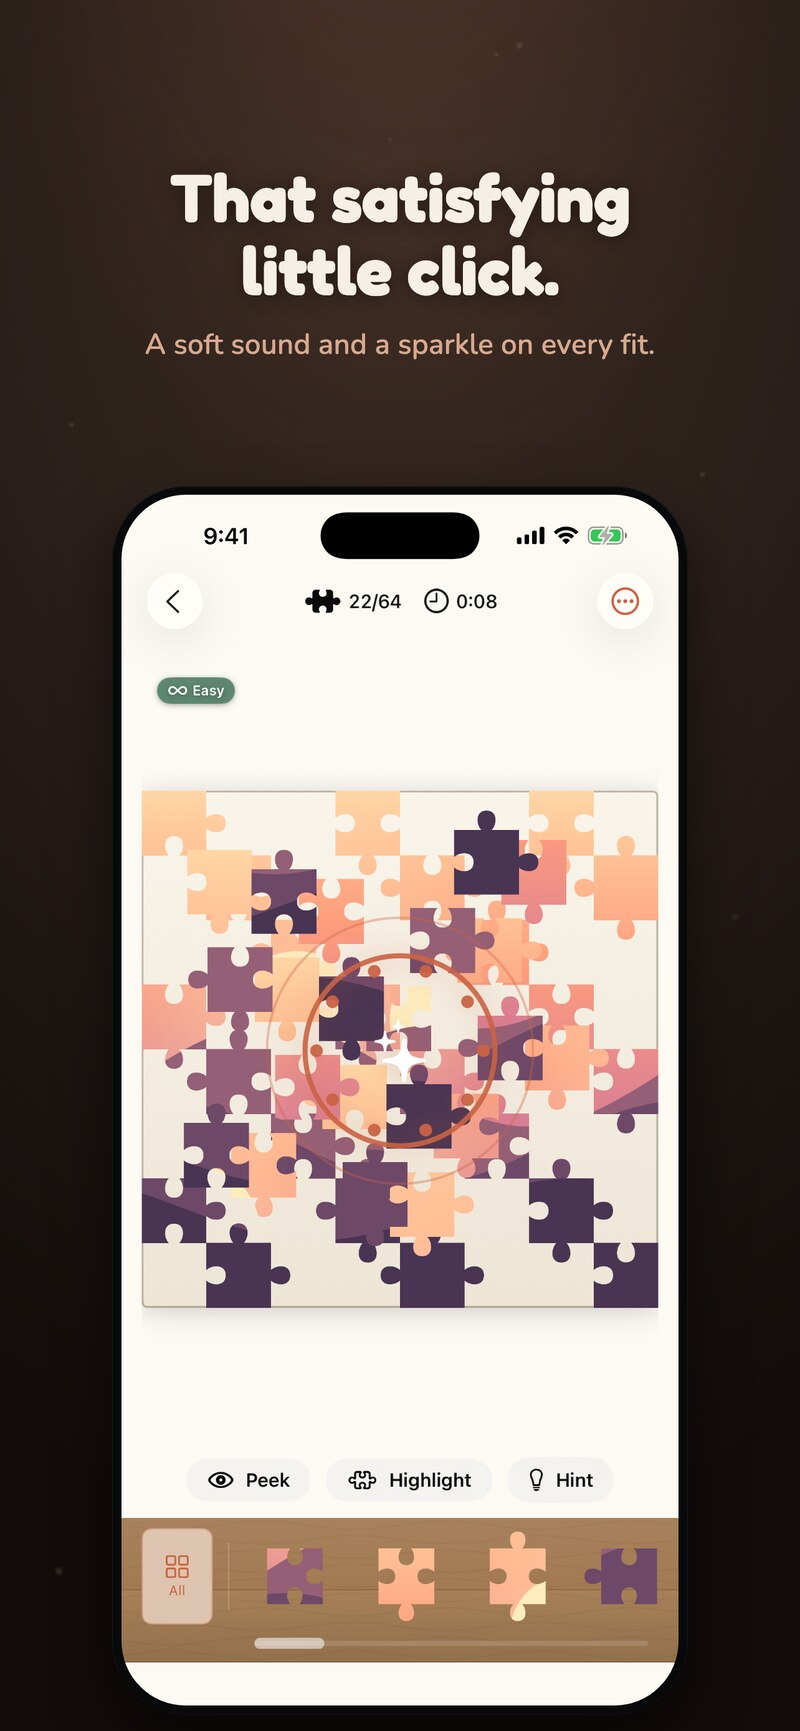
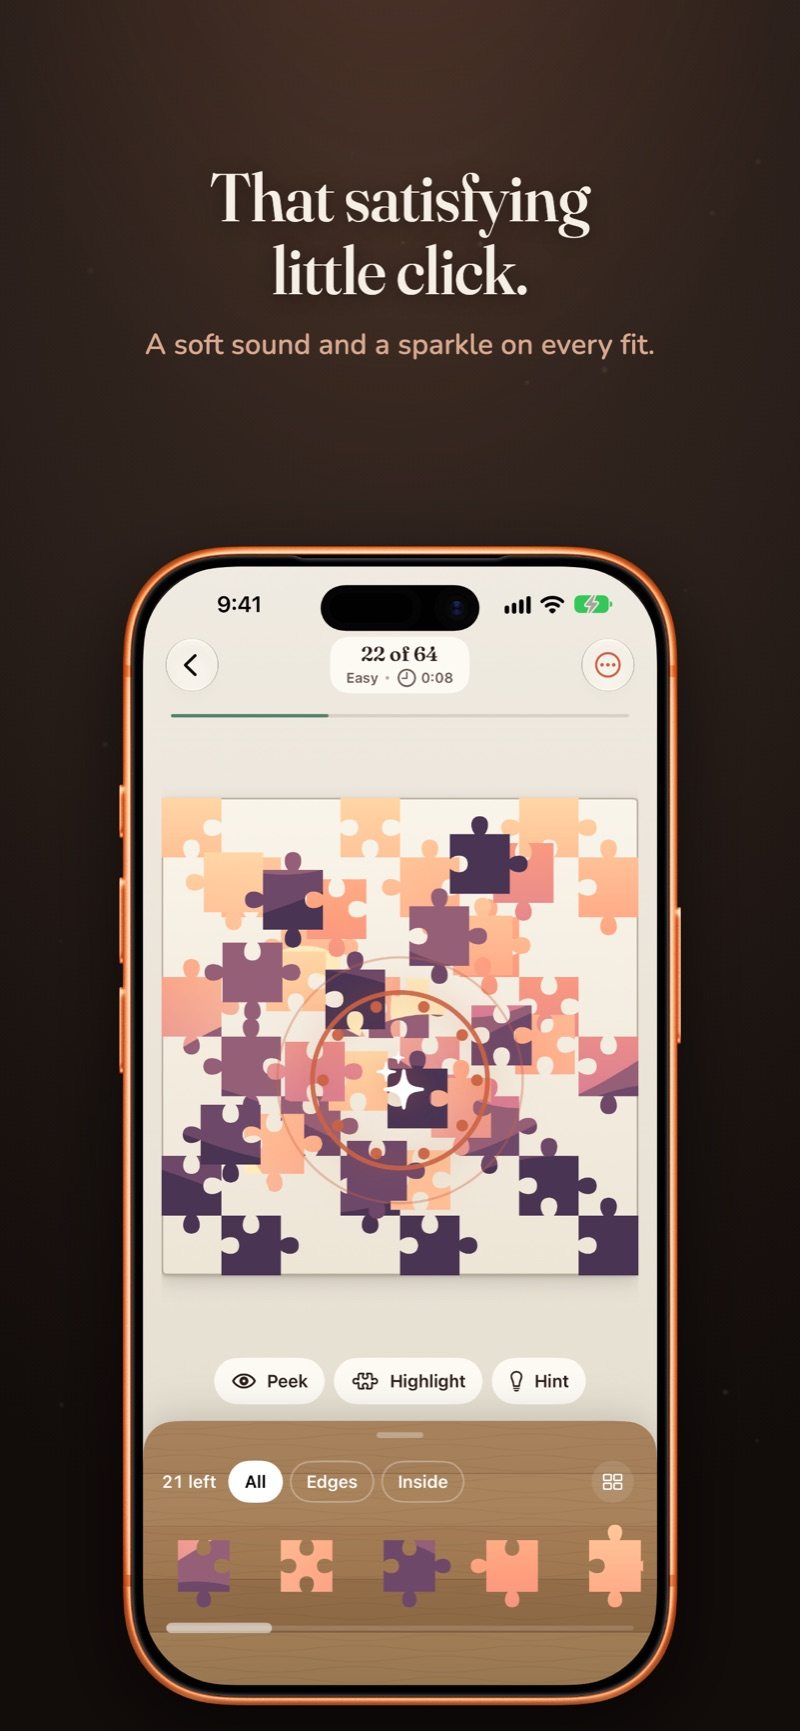
Update marketing assets and docs for 2.0
New iPhone and iPad screenshots, an iPhone Duo set, the App Store header art as a README banner, a What's New in 2.0 section, and the pile sorting features. Drops the camera mention, since the app only picks from the photo library.

Changed region(s): [[0.125, 0.2808, 0.875, 0.9983], [0.2188, 0.0936, 0.7812, 0.1872]]

diff --git a/README.md b/README.md
@@ -4,6 +4,10 @@
 
 # Piece of Mind: Picture Puzzles
 
+<p align="center">
+  <img src="marketing/header.jpg" alt="Your photos, one calm piece at a time. Jigsaw puzzles from your own pictures." width="100%" />
+</p>
+
 <!-- App Store link goes here once the app ships:
 <p align="center">
   <a href="APP_STORE_URL"><strong>Download on the App Store →</strong></a>
@@ -19,28 +23,50 @@ A calm iOS jigsaw app built around your own photos. Pick a picture, choose how m
 ### iPhone
 
 <p align="center">
-  <img src="marketing/iphone-1.jpg" width="19%" alt="Home library of puzzles" />
-  <img src="marketing/iphone-2.jpg" width="19%" alt="Create a puzzle from a photo" />
-  <img src="marketing/iphone-3.jpg" width="19%" alt="Solving the puzzle" />
-  <img src="marketing/iphone-4.jpg" width="19%" alt="A piece snapping into place" />
-  <img src="marketing/iphone-5.jpg" width="19%" alt="A finished puzzle" />
+  <img src="marketing/iphone-1.jpg" width="19%" alt="Your photos, your puzzles" />
+  <img src="marketing/iphone-2.jpg" width="19%" alt="Shape it and pick your pieces" />
+  <img src="marketing/iphone-3.jpg" width="19%" alt="Piece by piece, it comes together" />
+  <img src="marketing/iphone-4.jpg" width="19%" alt="That satisfying little click" />
+  <img src="marketing/iphone-5.jpg" width="19%" alt="Finish the picture" />
 </p>
 
 ### iPad
 
 <p align="center">
-  <img src="marketing/ipad-1.jpg" width="19%" alt="Home library of puzzles" />
-  <img src="marketing/ipad-2.jpg" width="19%" alt="Create a puzzle from a photo" />
-  <img src="marketing/ipad-3.jpg" width="19%" alt="Solving the puzzle" />
-  <img src="marketing/ipad-4.jpg" width="19%" alt="A piece snapping into place" />
-  <img src="marketing/ipad-5.jpg" width="19%" alt="A finished puzzle" />
+  <img src="marketing/ipad-1.jpg" width="19%" alt="Your photos, your puzzles" />
+  <img src="marketing/ipad-2.jpg" width="19%" alt="Shape it and pick your pieces" />
+  <img src="marketing/ipad-3.jpg" width="19%" alt="Piece by piece, it comes together" />
+  <img src="marketing/ipad-4.jpg" width="19%" alt="That satisfying little click" />
+  <img src="marketing/ipad-5.jpg" width="19%" alt="Finish the picture" />
 </p>
+
+### iPhone Duo
+
+Unfold it and the app opens up across the fold, with the picture on one side and your controls on the other.
+
+<p align="center">
+  <img src="marketing/duo-1.jpg" width="19%" alt="Your photos, your puzzles" />
+  <img src="marketing/duo-2.jpg" width="19%" alt="Shape it and pick your pieces" />
+  <img src="marketing/duo-3.jpg" width="19%" alt="Piece by piece, it comes together" />
+  <img src="marketing/duo-4.jpg" width="19%" alt="That satisfying little click" />
+  <img src="marketing/duo-5.jpg" width="19%" alt="Finish the picture" />
+</p>
+
+## What's New in 2.0
+
+- A fresh new look throughout, with warmer colors and a new serif for headings.
+- A friendlier welcome: choose your favorite puzzle size and mode, and try placing a piece before you start.
+- Sort the pile: show only edge or inside pieces, or pull up the tray to group every loose piece by shape or by color.
+- New puzzles take two quick steps: shape your photo, then pick a size and mode with a live preview of the cut.
+- A new finished screen, a redesigned library and settings, and a smoother replay with a scrubber you can drag.
+- On iPad, the pile sits in a roomy side panel next to the board.
+- Made for iPhone Duo: unfold it and the main screens open up across the fold.
 
 ## How to Play
 
-- **Pick a photo** from your library (or take one), **crop** it to the shape you like, then choose a piece count and a mode.
+- **Pick a photo** from your library (or start with the sample puzzle), **shape** it to the shape you like, then choose a piece count and a mode with a live preview of the cut.
 - A blade **sweeps your photo along the real seams** while the puzzle is cut, and then the board is laid out with a faint **reference ghost** behind it.
-- Pieces wait in a scrolling **tray** at the bottom, with a **scrub bar** for travelling a long pile quickly and a **view-all gallery** when you want to see them all at once.
+- Pieces wait in a scrolling **pile** at the bottom, with a **scrub bar** for travelling a long pile quickly. Narrow it to **edge** or **inside** pieces, or pull it up to see every loose piece **grouped by shape or by color**.
 - **Tap** a piece to send it to the board, then **drag** it to its spot. When it lands, it **snaps** into place with a sparkle and a gentle haptic. Neighboring pieces **join into clusters** that move together. **Pinch to zoom** in on a tricky corner.
 - Play **Easy** with no clock and the on-board aids available — **Peek** at the picture, **Highlight** the loose pieces, or ask for a **Hint** — or pick a **timed** mode, which hides the aids and puts the solve on a countdown scaled to the puzzle's size.
 - The bar tracks your progress and time, a quiet word marks the milestones along the way (the frame closing, the halfway mark, the home stretch), and finishing the picture brings a celebration.
@@ -53,22 +79,22 @@ Every puzzle is generated deterministically from the source photo, so a puzzle y
 
 ## Features
 
-- **Your photos, your puzzles** — turn any picture from your library (or a fresh camera shot) into a jigsaw, and crop it first if you like
+- **Your photos, your puzzles** — turn any picture from your library into a jigsaw, shaped the way you like, or start with the built-in sample
 - **Five piece counts** — 60 / 120 / 240 / 400 / 600, with the grid fit to each photo's shape
 - **Easy, Medium, and Hard modes** — play untimed and relaxed, or against a countdown that scales to the puzzle's size
 - A **reference ghost** behind the board plus **Peek**, **Highlight loose**, and **Hint**, so help is one tap away in Easy mode (and switched off entirely in the timed modes)
 - **Clustered pieces** — snap neighbors together and move them as one, plus **pinch to zoom** for the fiddly bits
-- A scrolling **piece tray** with a **scrub bar** for long piles, and a **view-all gallery** for finding the piece you want
+- **Sort the pile** — filter to edge or inside pieces, or group every loose piece by shape or by color, plus a **scrub bar** for long piles
 - **Tap to place, drag to snap** — satisfying snap feedback with sparkles and haptics
 - **A word along the way** — the app marks the frame closing, the quarter marks, and the home stretch
 - **Progress and elapsed time** in the bar, and a **best time** on each puzzle's Home card
 - **Watch it come together** — record a solve and replay it, or export it as a shareable video
 - **Resume anytime** — piece positions, clusters, tray order, and elapsed time persist, so you can close mid-puzzle and pick up later
 - **Share the finished image** from the completion screen or the Home long-press menu
-- **Make it yours** — pick the surface under the board and the wood behind the tray, choose light or dark, and on iPad put the tray column under your dominant hand
-- First-run **onboarding**, soft snap and completion sounds, and a **calm music bed** while you solve
+- **Make it yours** — pick the surface under the board and the wood behind the tray, choose light or dark, and on iPad keep the pile in a side panel next to the board
+- A friendly first-run **welcome** that sets your favorite size and mode, soft snap and completion sounds, and a **calm music bed** while you solve
 - Independent **sound effects, music, and haptics** toggles
-- Universal (**iPhone + iPad**)
+- Universal (**iPhone + iPad**), with two-pane layouts on the unfolded **iPhone Duo**
 - Fully **offline** — no account, no sign-up, no ads, no analytics, no network calls
 
 ## Privacy
@@ -82,7 +108,7 @@ Have a question or found a bug? Check our [Support & FAQ](SUPPORT.md) page or [o
 ## Requirements
 
 - iOS 18.0+
-- iPhone and iPad
+- iPhone (including iPhone Duo) and iPad
 
 ## License
 

diff --git a/SUPPORT.md b/SUPPORT.md
@@ -8,11 +8,11 @@ If you have a question, found a bug, or want to request a feature for Piece of M
 
 ### How do I make a puzzle?
 
-Tap to create a new puzzle, pick a photo from your library (or take one with the camera), and choose a piece count. Piece of Mind cuts your picture into interlocking jigsaw pieces and drops you onto the board.
+Tap to create a new puzzle, pick a photo from your library (or try the sample puzzle), shape it, and choose a piece count and mode. Piece of Mind cuts your picture into interlocking jigsaw pieces and drops you onto the board.
 
 ### How do I play?
 
-Pieces wait in a scrolling tray at the bottom, with a "view all" gallery when you want to see them together. **Tap** a piece to send it to the board, then **drag** it to its spot — when it lands, it snaps into place with a sparkle and a gentle haptic. Behind the board is a faint reference ghost. In **Easy** there is no clock at all and the on-board aids are yours whenever you want them: **Peek** for a glance at the finished picture, **Highlight** to pick the loose pieces out of the board, and **Hint** to be shown where one piece belongs. As you go, the app marks the moments worth marking, like the frame closing or the halfway point. Finish the picture and a quiet celebration plays.
+Pieces wait in a scrolling pile at the bottom. Narrow it to edge or inside pieces, or pull it up to see every loose piece grouped by shape or by color. **Tap** a piece to send it to the board, then **drag** it to its spot — when it lands, it snaps into place with a sparkle and a gentle haptic. Behind the board is a faint reference ghost. In **Easy** there is no clock at all and the on-board aids are yours whenever you want them: **Peek** for a glance at the finished picture, **Highlight** to pick the loose pieces out of the board, and **Hint** to be shown where one piece belongs. As you go, the app marks the moments worth marking, like the frame closing or the halfway point. Finish the picture and a quiet celebration plays.
 
 ### What are the piece counts?
 
@@ -32,7 +32,7 @@ Yes. Settings has a surface for the board (paper by default) and one for the tra
 
 ### Does Piece of Mind use my photos?
 
-Only the picture you pick. When you choose a photo (or take one), the app copies that single image into its own on-device storage to build the puzzle. Your photos never leave your device, aren't uploaded anywhere, and aren't shared with anyone. See the [Privacy Policy](PRIVACY.md) for details.
+Only the picture you pick. When you choose a photo, the app copies that single image into its own on-device storage to build the puzzle. Your photos never leave your device, aren't uploaded anywhere, and aren't shared with anyone. See the [Privacy Policy](PRIVACY.md) for details.
 
 ### Does Piece of Mind collect my data?
 

diff --git a/PRIVACY.md b/PRIVACY.md
@@ -16,7 +16,7 @@ Piece of Mind does **not** collect, transmit, or store any personal data. Specif
 
 ## Your Photos
 
-Piece of Mind turns pictures you choose into jigsaw puzzles. When you pick a photo from your library — or take one with the camera — the app copies **that single image** into its own on-device storage so it can slice it into pieces and let you resume later. Your photos:
+Piece of Mind turns pictures you choose into jigsaw puzzles. When you pick a photo from your library, the app copies **that single image** into its own on-device storage so it can slice it into pieces and let you resume later. Your photos:
 
 - **Never leave your device** — they are not uploaded, backed up to us, or shared with any third party.
 - Are only accessed when **you** choose a picture; the app does not browse or scan your library on its own.
